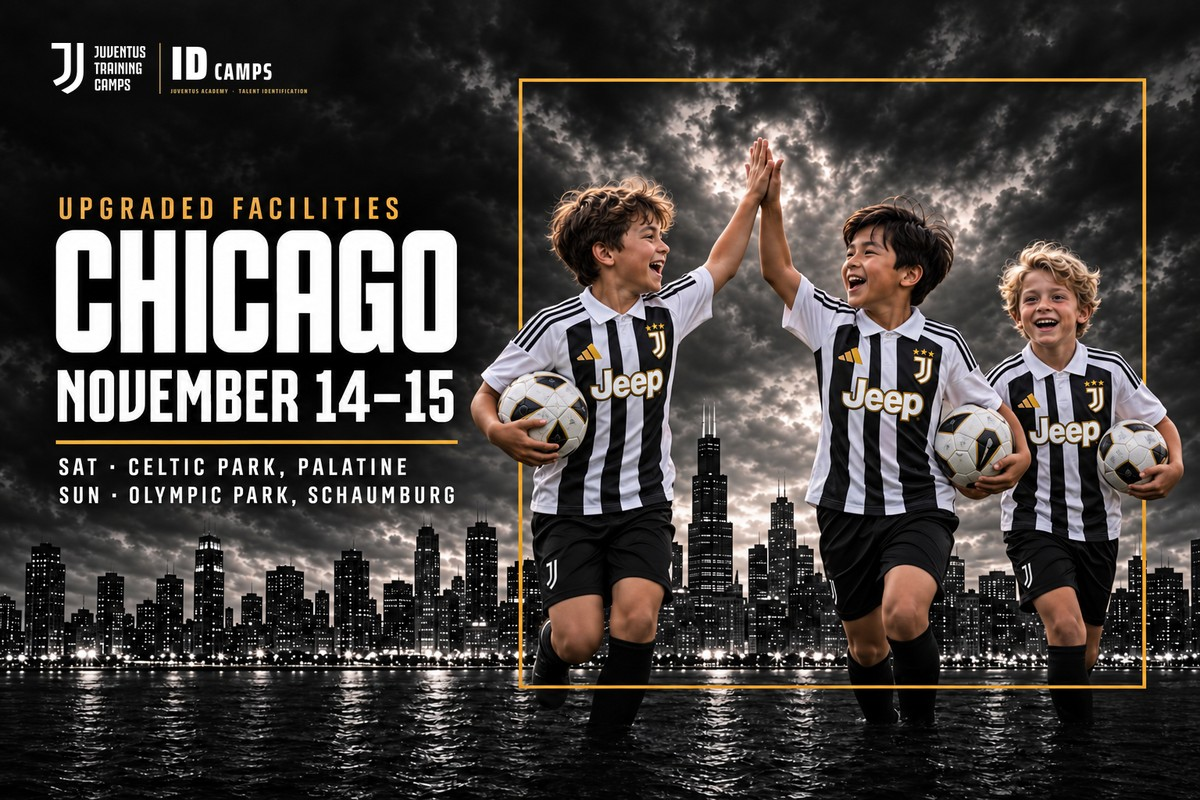
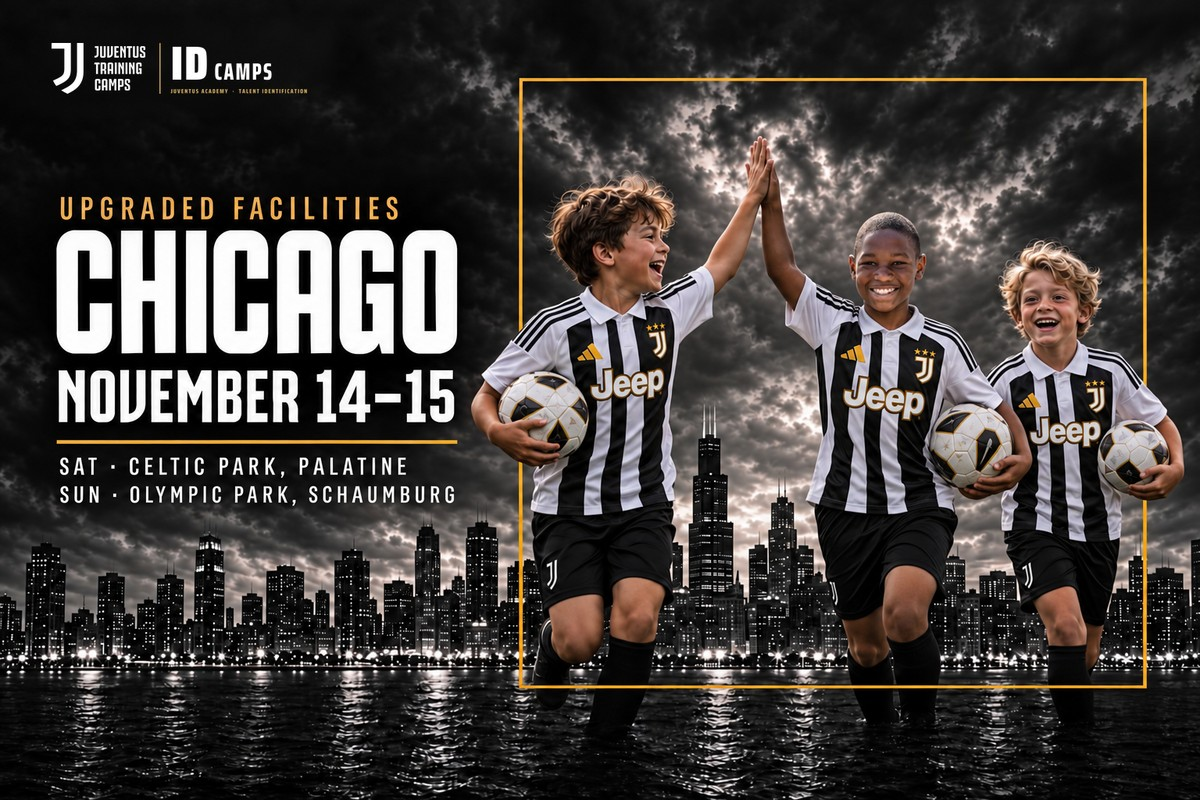
Correo logistica Chicago: cabecera v2 (nino distinto)

diff --git a/email_chi_logistica_email.html b/email_chi_logistica_email.html
@@ -6,7 +6,7 @@
 <table role="presentation" width="100%" cellpadding="0" cellspacing="0" border="0" style="background-color:#eceae6;">
 <tr><td align="center" style="padding:16px 8px;">
 <table role="presentation" width="600" cellpadding="0" cellspacing="0" border="0" style="width:100%;max-width:600px;background-color:#ffffff;">
-<tr><td><img src="img/cab_chi_logistica.jpg?v=1" width="600" alt="Juventus Academy ID Camp Chicago · November 14–15 · Updated training locations" style="display:block;width:100%;max-width:600px;height:auto;border:0;margin:0;"></td></tr>
+<tr><td><img src="img/cab_chi_logistica.jpg?v=2" width="600" alt="Juventus Academy ID Camp Chicago · November 14–15 · Updated training locations" style="display:block;width:100%;max-width:600px;height:auto;border:0;margin:0;"></td></tr>
 <tr><td style="padding:28px 30px 6px;font-family:Arial,Helvetica,sans-serif;font-size:16px;line-height:25px;color:#111111;">
 <p style="margin:0 0 14px;">Dear Juventus Academy Families,</p><p style="margin:0 0 14px;">We are excited to share some great news regarding our upcoming Juventus Academy ID Camp in Chicago on November 14–15!</p><p style="margin:0 0 14px;">Due to the exceptional interest and enthusiastic response from families, with over 120 players registered for our upcoming event, our Juventus Academy USA staff has decided to upgrade our training facilities to provide an even higher-quality experience for every participant.</p><p style="margin:0 0 14px;">Our priority is to ensure that each player has the appropriate space and environment to develop their skills, maximize their performance, and receive a thorough evaluation from our Juventus coaching staff.</p><p style="margin:0 0 14px;">For this reason, we have secured <b>two full-size 11v11 soccer fields for Saturday, November 14</b>, allowing us to organize age-specific technical and tactical training sessions, optimize our coaching methodology, and create the best possible environment for each player’s development and evaluation.</p><p style="margin:22px 0 12px;font-size:15px;letter-spacing:2px;font-weight:bold;color:#111111;">UPDATED TRAINING LOCATIONS</p><table role="presentation" width="100%" cellpadding="0" cellspacing="0" border="0" style="margin:0 0 14px;"><tr><td style="background-color:#111111;padding:16px 18px;font-family:Arial,Helvetica,sans-serif;color:#ffffff;"><div style="font-size:13px;letter-spacing:2px;font-weight:bold;color:#A87A2D;margin:0 0 8px;">SATURDAY, NOVEMBER 14 – NEW LOCATION</div><div style="font-size:18px;font-weight:bold;margin:0 0 8px;">Celtic Park – Turf Fields 1 &amp; 2</div><div style="font-size:15px;line-height:24px;">&#128205; 1351 N Rohlwing Road, Palatine, IL 60074<br>&#128339; Training Hours: 10:00 AM – 2:00 PM</div><table role="presentation" cellpadding="0" cellspacing="0" border="0" style="margin:12px 0 0;"><tr><td bgcolor="#A87A2D" style="background-color:#A87A2D;"><a href="https://www.google.com/maps/search/?api=1&amp;query=Celtic+Park+1351+N+Rohlwing+Road+Palatine+IL+60074" style="display:inline-block;padding:10px 18px;font-family:Arial,Helvetica,sans-serif;font-size:13px;font-weight:bold;letter-spacing:1px;color:#111111;text-decoration:none;">Google Maps – Celtic Park &rarr;</a></td></tr></table></td></tr></table><p style="margin:0 0 14px;"><span style="font-size:15px;color:#333333;">Celtic Park is located approximately 17–18 minutes from Olympic Park, making this an excellent facility upgrade while remaining conveniently located for our participating families.</span></p><table role="presentation" width="100%" cellpadding="0" cellspacing="0" border="0" style="margin:0 0 14px;"><tr><td style="background-color:#111111;padding:16px 18px;font-family:Arial,Helvetica,sans-serif;color:#ffffff;"><div style="font-size:13px;letter-spacing:2px;font-weight:bold;color:#A87A2D;margin:0 0 8px;">SUNDAY, NOVEMBER 15 – ORIGINAL LOCATION</div><div style="font-size:18px;font-weight:bold;margin:0 0 8px;">Olympic Park – Field 5</div><div style="font-size:15px;line-height:24px;">&#128205; 1675 E Old Schaumburg Road, Schaumburg, IL 60173<br>&#128339; Training Hours: 10:00 AM – 2:00 PM</div><table role="presentation" cellpadding="0" cellspacing="0" border="0" style="margin:12px 0 0;"><tr><td bgcolor="#A87A2D" style="background-color:#A87A2D;"><a href="https://www.google.com/maps/search/?api=1&amp;query=Olympic+Park+1675+E+Old+Schaumburg+Road+Schaumburg+IL+60173" style="display:inline-block;padding:10px 18px;font-family:Arial,Helvetica,sans-serif;font-size:13px;font-weight:bold;letter-spacing:1px;color:#111111;text-decoration:none;">Google Maps – Olympic Park &rarr;</a></td></tr></table></td></tr></table><table role="presentation" width="100%" cellpadding="0" cellspacing="0" border="0" style="margin:6px 0 18px;"><tr><td style="border-left:4px solid #A87A2D;background-color:#f6f1e7;padding:12px 16px;font-family:Arial,Helvetica,sans-serif;font-size:15px;line-height:23px;color:#111111;"><b>IMPORTANT:</b> Training hours remain exactly the same on both days. Only Saturday’s location has changed.</td></tr></table><table role="presentation" width="100%" cellpadding="0" cellspacing="0" border="0" style="margin:4px 0 20px;"><tr><td align="center" style="background-color:#111111;padding:18px 18px;font-family:Arial,Helvetica,sans-serif;color:#ffffff;"><div style="font-size:13px;letter-spacing:2px;font-weight:bold;color:#A87A2D;margin:0 0 8px;">NOT IN THE WHATSAPP GROUP YET?</div><div style="font-size:15px;line-height:23px;margin:0 0 14px;">Join the Juventus ID Camp Chicago 2026 group to receive all camp updates and reminders.</div><table role="presentation" cellpadding="0" cellspacing="0" border="0" align="center"><tr><td bgcolor="#A87A2D" style="background-color:#A87A2D;"><a href="https://chat.whatsapp.com/CrCTVi9ALnmLgDCn5A47jT" style="display:inline-block;padding:12px 24px;font-family:Arial,Helvetica,sans-serif;font-size:14px;font-weight:bold;letter-spacing:1px;color:#111111;text-decoration:none;">JOIN THE WHATSAPP GROUP &rarr;</a></td></tr></table></td></tr></table><p style="margin:0 0 14px;">We are incredibly excited to welcome more than 120 talented young players to this special event!</p><p style="margin:0 0 14px;">This facility upgrade reflects our continued commitment to delivering an exceptional Juventus Academy experience, combining professional coaching, age-appropriate training, and meaningful player evaluations in an environment designed to help every player perform at their best.</p><p style="margin:0 0 14px;">Thank you for your trust, enthusiasm, and continued support. We look forward to welcoming all our players and families for an unforgettable weekend of football!</p><p style="margin:0 0 14px;"><b>Fino Alla Fine!</b> &#9898;&#9899;</p><img src="img/fin_llegada_v2.jpg" width="540" alt="Juventus Academy ID Camp Chicago" style="display:block;width:100%;max-width:540px;height:auto;border:0;margin:18px 0 8px;">
 </td></tr>
